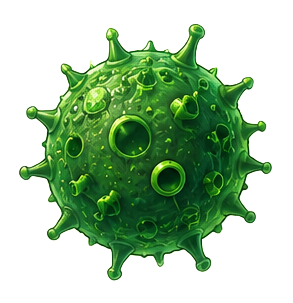
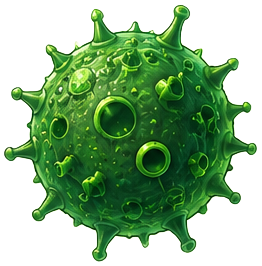
Level-based virus art; antibody/macrophage bubbles with idle/pop
- 10 virus level images trimmed by alpha and downsized (<=360px),
  antibody_blue / macrophage_red sized to <=240px for the bubble art
- New getCurrentVirusImage() picks assets/virus_levels_png/virus_level_N.png
  (clamped 1..10). updateVirusArt() re-points every .virus-art and
  .home-virus when the virus levels up. Hooked into init,
  updateVirusLevelProgress, cloneHelixToMap and showToast so all
  three places that show the virus stay in sync with the current
  level
- Tutorial bubbles and spawnFloatingBubble now drop an
  <img class="bubble-art"> instead of the emoji — randomly antibody
  or macrophage so the play area gets a mix
- New .bubble-art styles strip the old purple sphere background,
  ::before/::after and hover shadow on .dna-bubble. The image gets
  a soft drop-shadow plus a bubble-art-idle wobble (scale 1↔1.06,
  rotate ±3deg, 3.2s loop). Idle pauses on .popping so the parent
  smooth-pop drives the burst cleanly
- smooth-pop enhanced with a slight clockwise spin into the burst
  so the new circular art reads as a juicier pop

diff --git a/index.html b/index.html
@@ -463,12 +463,47 @@
         }
         
         @keyframes smooth-pop {
-            0%   { transform: scale(1);    opacity: 1; }
-            32%  { transform: scale(0.78); opacity: 1; }   /* anticipation squeeze */
-            58%  { transform: scale(1.45); opacity: 1; }   /* peak burst — still visible */
-            66%  { transform: scale(1.55); opacity: 0; }   /* shell pops — gone */
-            100% { transform: scale(1.7);  opacity: 0; }
+            0%   { transform: scale(1)    rotate(0deg);   opacity: 1; }
+            32%  { transform: scale(0.78) rotate(-10deg); opacity: 1; }
+            58%  { transform: scale(1.45) rotate(8deg);   opacity: 1; }
+            66%  { transform: scale(1.6)  rotate(14deg);  opacity: 0; }
+            100% { transform: scale(1.75) rotate(20deg);  opacity: 0; }
         }
+
+        /* Artwork-based bubbles (antibody / macrophage) override the old purple sphere */
+        .dna-bubble {
+            background: none;
+            box-shadow: none;
+            border: 0;
+        }
+        .dna-bubble::before,
+        .dna-bubble::after {
+            display: none;
+        }
+        @media (hover: hover) {
+            .dna-bubble:hover { box-shadow: none; }
+        }
+
+        .bubble-art {
+            display: block;
+            width: 100%;
+            height: 100%;
+            object-fit: contain;
+            pointer-events: none;
+            user-select: none;
+            -webkit-user-select: none;
+            filter: drop-shadow(0 6px 16px rgba(0, 0, 0, 0.55));
+            animation: bubble-art-idle 3.2s ease-in-out infinite;
+            will-change: transform;
+        }
+
+        @keyframes bubble-art-idle {
+            0%, 100% { transform: scale(1)    rotate(-3deg); }
+            50%      { transform: scale(1.06) rotate(3deg); }
+        }
+
+        /* During pop, let the parent's smooth-pop drive the burst */
+        .dna-bubble.popping .bubble-art { animation: none; }
 
         /* Pop visual effects: flash, shockwave, particles, +N text */
         .pop-flash {
@@ -2571,19 +2606,19 @@
                 <span class="organelle o5"></span>
                 <span class="organelle o6"></span>
             </div>
-            <img class="home-virus" src="assets/virus.png" alt="" aria-hidden="true"/>
+            <img class="home-virus" src="assets/virus_levels_png/virus_level_1.png" alt="" aria-hidden="true"/>
             <p class="game-subtitle">Лопай пузырьки — копи ДНК</p>
 
             <div class="dna-bubbles" id="dnaBubbles">
                 <div class="dna-bubble" data-dna="10">
-                    <div class="dna-symbol">🧬</div>
+                    <img class="bubble-art" src="assets/antibody_blue.png" alt=""/>
                 </div>
                 <div class="dna-bubble" data-dna="15">
-                    <div class="dna-symbol">🧬</div>
+                    <img class="bubble-art" src="assets/macrophage_red.png" alt=""/>
                     <div class="finger-hint hidden" id="fingerHint">👇</div>
                 </div>
                 <div class="dna-bubble" data-dna="12">
-                    <div class="dna-symbol">🧬</div>
+                    <img class="bubble-art" src="assets/antibody_blue.png" alt=""/>
                 </div>
             </div>
         </div>
@@ -2707,7 +2742,7 @@
                     </div>
                 </div>
                 <div class="virus-character">
-                    <img class="virus-art" src="assets/virus.png" alt=""/>
+                    <img class="virus-art" src="assets/virus_levels_png/virus_level_1.png" alt=""/>
                 </div>
             </div>
 
@@ -2899,6 +2934,7 @@
                 this.bindEvents();
                 this.updateDNACounter();
                 this.cloneHelixToMap();
+                this.updateVirusArt();
                 this.renderVirusScreen();
                 if (!this.tutorialDone) {
                     document.body.classList.add('tutorial-active');
@@ -2950,7 +2986,8 @@
 
                 const bubble = document.createElement('div');
                 bubble.className = 'dna-bubble floating';
-                bubble.innerHTML = '<div class="dna-symbol">🧬</div>';
+                const art = Math.random() < 0.5 ? 'antibody_blue' : 'macrophage_red';
+                bubble.innerHTML = `<img class="bubble-art" src="assets/${art}.png" alt=""/>`;
                 bubble.dataset.dna = Math.floor(Math.random() * 10) + 8;
 
                 const rect = home.getBoundingClientRect();
@@ -3089,10 +3126,25 @@
                 });
             }
 
+            getCurrentVirusImage() {
+                const lvl = Math.max(1, Math.min(10, this.virusLevel || 1));
+                return `assets/virus_levels_png/virus_level_${lvl}.png`;
+            }
+
+            updateVirusArt() {
+                const src = this.getCurrentVirusImage();
+                document.querySelectorAll('.virus-art, .home-virus').forEach(img => {
+                    if (img.tagName === 'IMG' && img.getAttribute('src') !== src) {
+                        img.src = src;
+                    }
+                });
+            }
+
             updateVirusLevelProgress() {
                 const total = this.getTotalAbilityLevels();
                 const PER_LEVEL = 4;
                 this.virusLevel = Math.floor(total / PER_LEVEL) + 1;
+                this.updateVirusArt();
                 const lvl = document.getElementById('virusLevel');
                 if (lvl) lvl.textContent = this.virusLevel;
                 const pct = ((total % PER_LEVEL) / PER_LEVEL) * 100;
@@ -3163,7 +3215,7 @@
                 if (slot && !slot.querySelector('.virus-art')) {
                     const img = document.createElement('img');
                     img.className = 'virus-art';
-                    img.src = 'assets/virus.png';
+                    img.src = this.getCurrentVirusImage();
                     img.alt = '';
                     slot.appendChild(img);
                 }
@@ -3845,7 +3897,7 @@
             showToast(title, sub) {
                 const toast = document.createElement('div');
                 toast.className = 'placement-toast';
-                toast.innerHTML = `<img class="toast-icon-img" src="assets/virus.png" alt=""/><div class="toast-title">${title}</div>${sub ? `<div class="toast-sub">${sub}</div>` : ''}`;
+                toast.innerHTML = `<img class="toast-icon-img" src="${this.getCurrentVirusImage()}" alt=""/><div class="toast-title">${title}</div>${sub ? `<div class="toast-sub">${sub}</div>` : ''}`;
                 document.body.appendChild(toast);
                 setTimeout(() => toast.remove(), 1700);
             }
